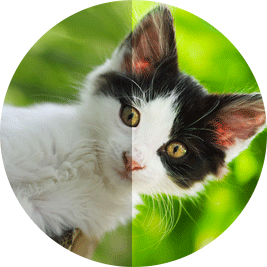
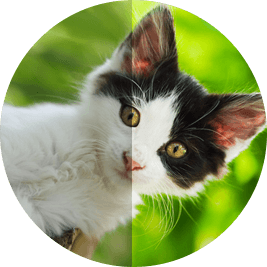
optimize images with tinypng.com

diff --git a/css/style.css b/css/style.css
@@ -190,7 +190,7 @@ header nav {
   margin: 0;
 }
 
-.main-header::first-letter {
+.base-title::first-letter {
   font-size: 60px;
 }
 
